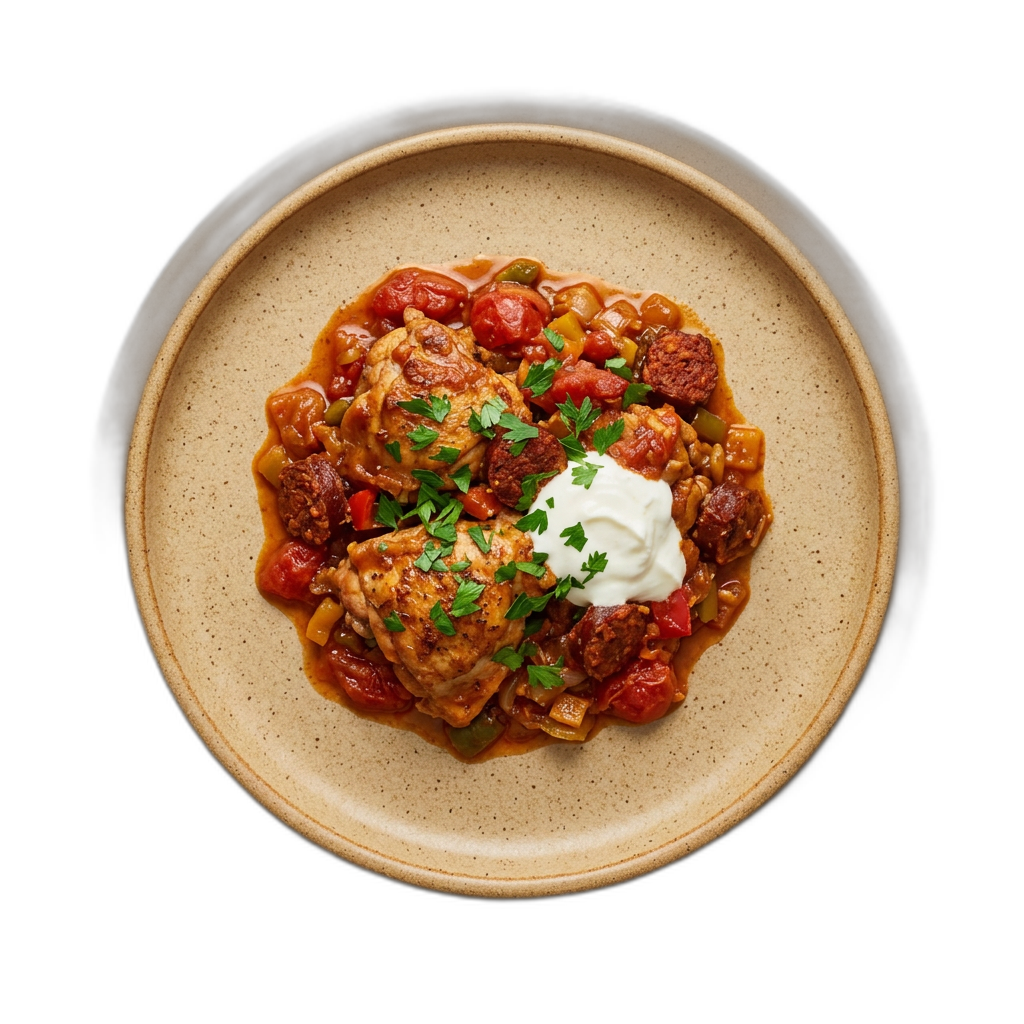
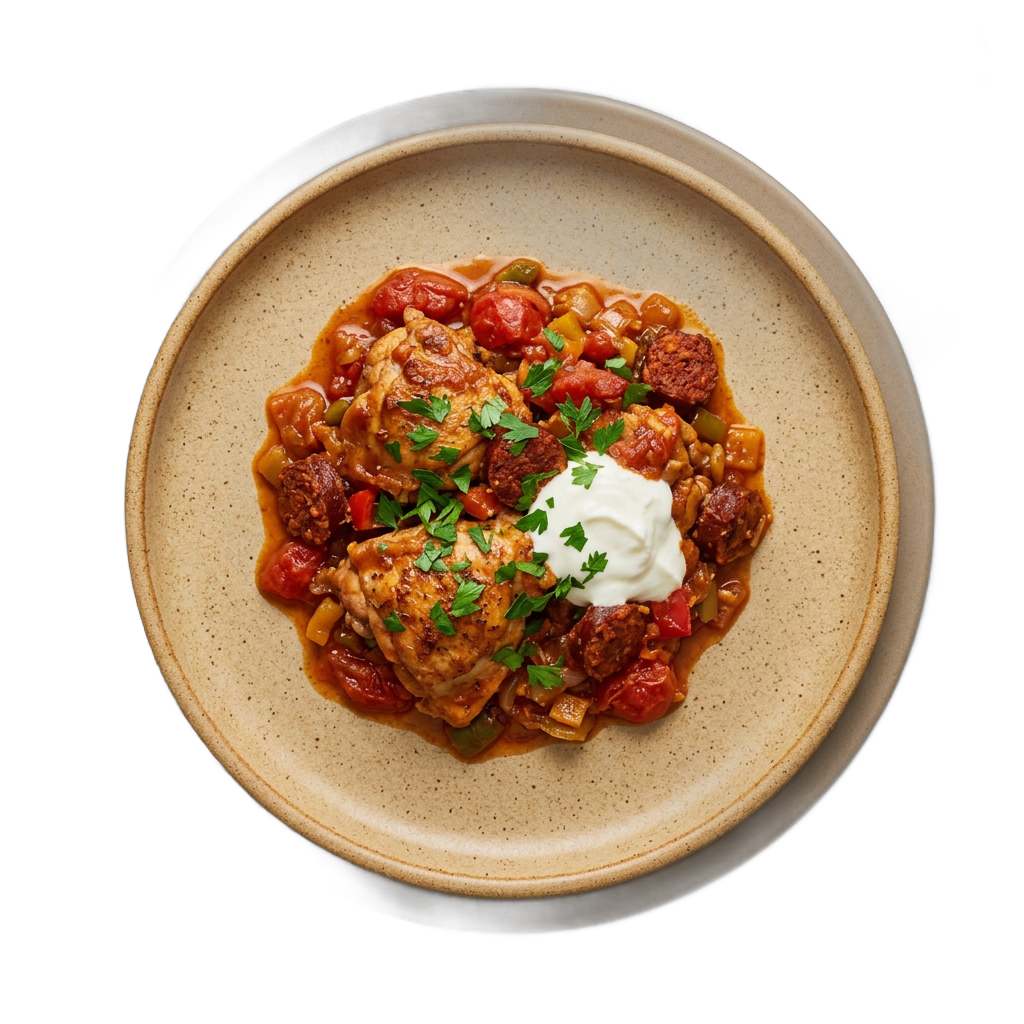
Fix: reprocess flow Thursday image cleanly, redesign mobile card layout
Image:
- Reprocess images_nobg/thursday/flow.png with isnet-general-use model —
  removes all shadow/background artifacts while fully preserving the plate

Mobile card layout:
- Shrink image wrapper 144→130px and fix margins: remove -10px right overlap
  that was causing text to start behind the image edge
- Change card-content align-self: flex-start → center so canteen name and
  dish title are vertically centred relative to the dish image, not pinned
  to the very top of the card
- Increase card-content left padding 6px → 18px for clear breathing room
  between image and text column
- Add margin-bottom: 4px to card-header, bump canteen-name margin-bottom
  to 3px and dish-name font-size to clamp(12px,2.8vw,15px) for better
  visual hierarchy in the tighter layout

diff --git a/src/app/globals.css b/src/app/globals.css
@@ -1042,9 +1042,9 @@ body {
     left: auto;
     top: auto;
     transform: none;
-    width: 144px;
-    height: 144px;
-    margin: -25px -10px -15px -25px;
+    width: 130px;
+    height: 130px;
+    margin: -18px 0 -12px -22px;
     flex-shrink: 0;
     z-index: 10;
   }
@@ -1070,26 +1070,26 @@ body {
   .card-content {
     flex: 1;
     text-align: left;
-    padding: 0 0 0 6px;
+    padding: 0 10px 0 18px;
     min-width: 0;
-    align-self: flex-start;
+    align-self: center;
   }
 
   .card-header {
     text-align: left;
-    margin: 0;
+    margin-bottom: 4px;
   }
 
   .canteen-name {
     font-size: 10px;
-    margin-bottom: 2px;
+    margin-bottom: 3px;
     letter-spacing: 1px;
   }
 
   .dish-name {
-    font-size: clamp(12px, 2.5vw, 14px);
+    font-size: clamp(12px, 2.8vw, 15px);
     font-weight: 700;
-    line-height: 1.25;
+    line-height: 1.3;
     margin-bottom: 0;
     text-align: left;
     justify-content: flex-start;
@@ -1100,8 +1100,8 @@ body {
     display: flex;
     justify-content: space-between;
     align-items: center;
-    margin: 4px 0 6px 0;
-    min-height: 26px;
+    margin: 3px 0 0 0;
+    min-height: 22px;
     width: 100%;
     gap: 6px;
   }
